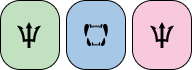
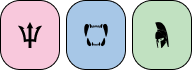
updated instructions image and readme

diff --git a/README.md b/README.md
@@ -1,14 +1,25 @@
 # Olympus Card-Jitsu
 
+## Live Link
+https://jzhou45.github.io/Olympus-Card-Jitsu/
+
 ## Background
+### Club Penguin Card-Jitsu
 Card-Jitsu is a mini-game that was first introduced in the formerly popular MMORPG, Club Penguin, in November of 2008, with the introduction of ninjas and the Dojo to servers. The card game follows a simple gameplay premise, where players would have decks with cards of three different types, that follow the classic Rock-Paper-Scissors structure, where 1 type would beat another, but lose to the other. The cards would also contain a number value and color associated with it for additional gameplay mechanics, along with cards with special effect that changes the rules of the round it's played in.
 
 Each round of Card-Jitsu, would require each player to play 1 card at the same time. The player with the strong type would win the round, e.g. Water beats Fire in Card-Jitsu or Rock beats Scissors in Rock-Paper-Scissors. If both cards are of the same element, the card with the higher number value would win, otherwise the round will end in a tie.
 
 After each round ends, the player would collect a token with the type and color of the card they won with. In order to win the game, a player would need to collect 3 tokens are different types or 3 tokens of the same type with different colors.
 
-This game will aim to recreate the same game mechanics, involving cards based on Greek mythology.
+### Olympus Card-Jitsu
+Olympus Card-Jitsu aims to make a faithful adapatation to the core Card-Jitsu gameplay with new classes and cards based on Greek mythology and lore. In order to keep the game a client-side project, the opponenet will be a simple A.I., rather than an opposing player.
 
+## Wireframe
+![alt text](./wireframe.png)
+The wireframe above displays the framework of the core game screen where:
+  * Users are able to view their hand and remaining time on the bottom of the screen.
+  * When time runs or when user and A.I. has chosen their cards, they will both display on the board, represented by user sprites in the above wireframe.
+  * The top left represents all the cards the user has won with in the form of tokens or sprites, whereas the top right represents the A.I.'s.
 
 
 ## Functionality & MVPs
@@ -23,8 +34,6 @@ In addition, this project will include:
   * Audio and visual cues to the end of rounds and games
   * Background music
   
-## Wireframes
-![alt text](./wireframe.png)
 
 ## Technologies, Libraries, APIs
 Olympus Card-Jitsu will be made with Vanilla JavaScript through DOM Manipulation.
